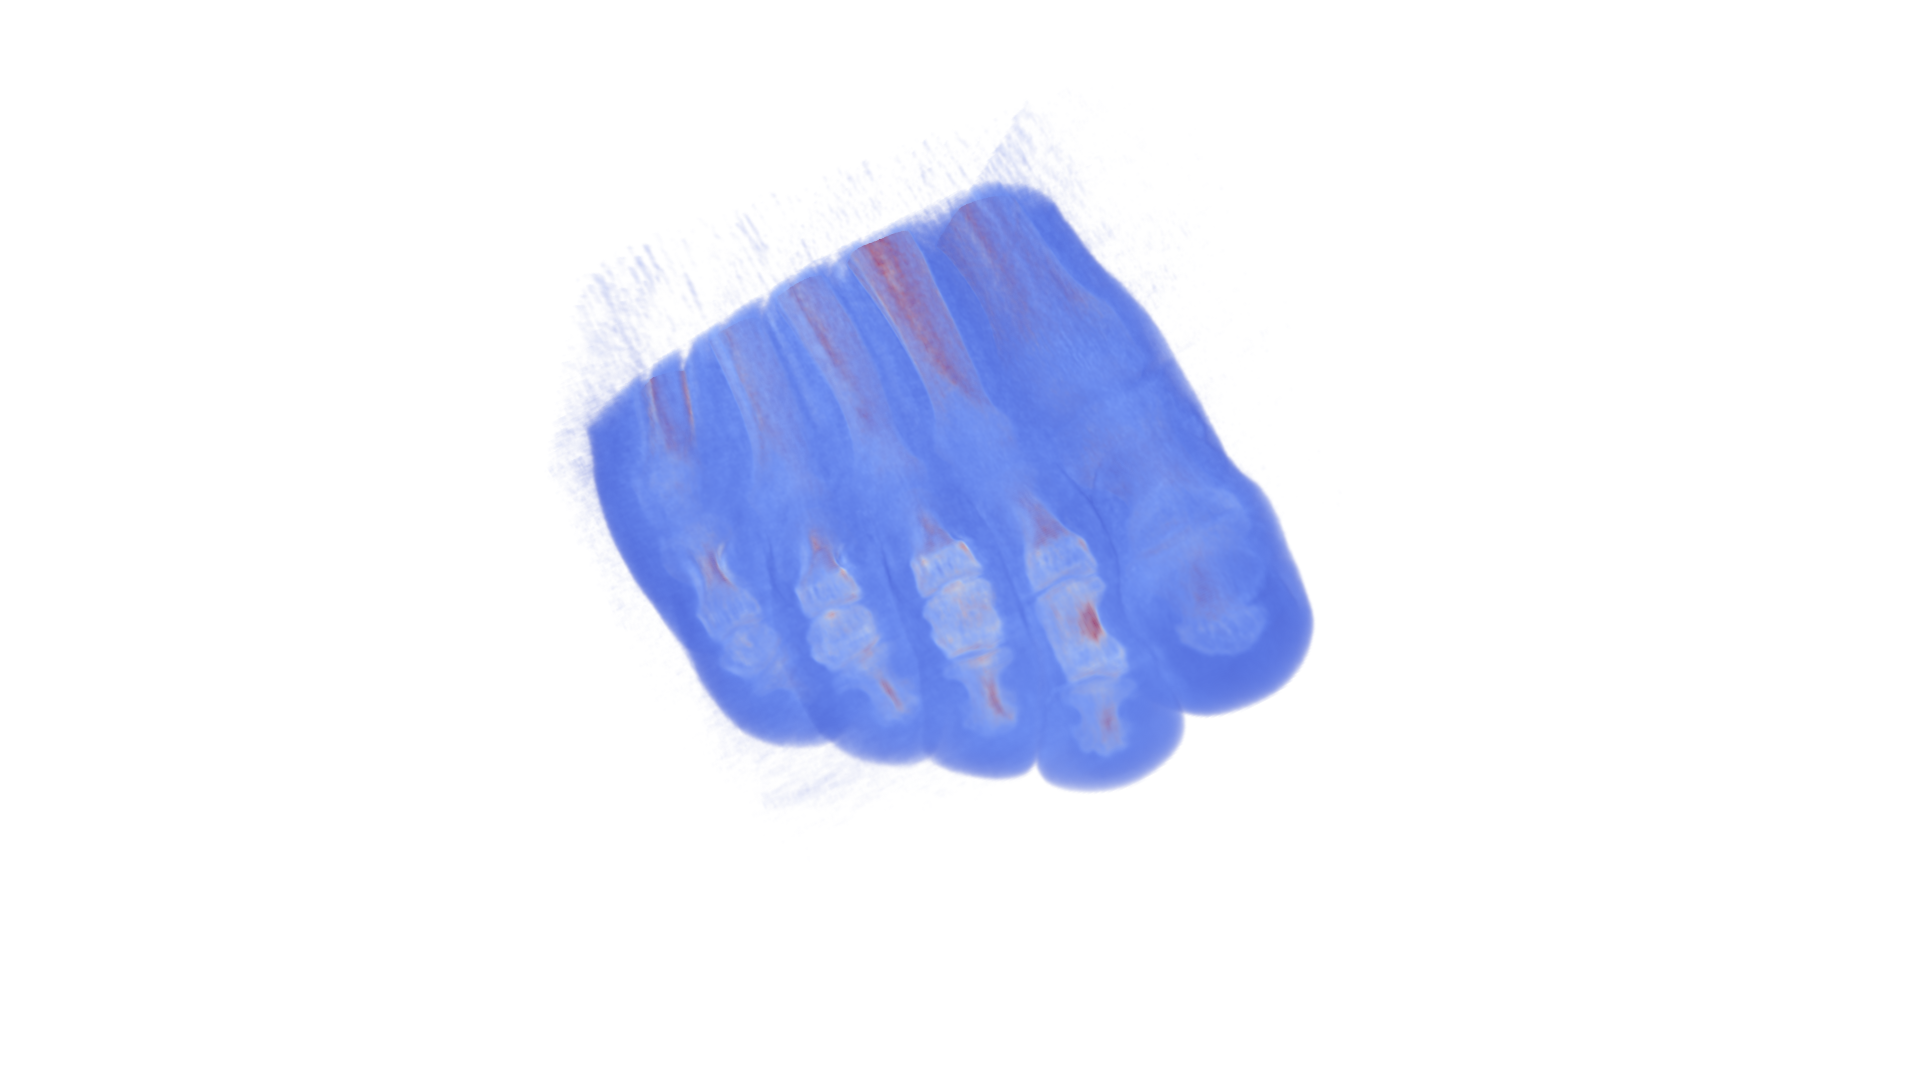
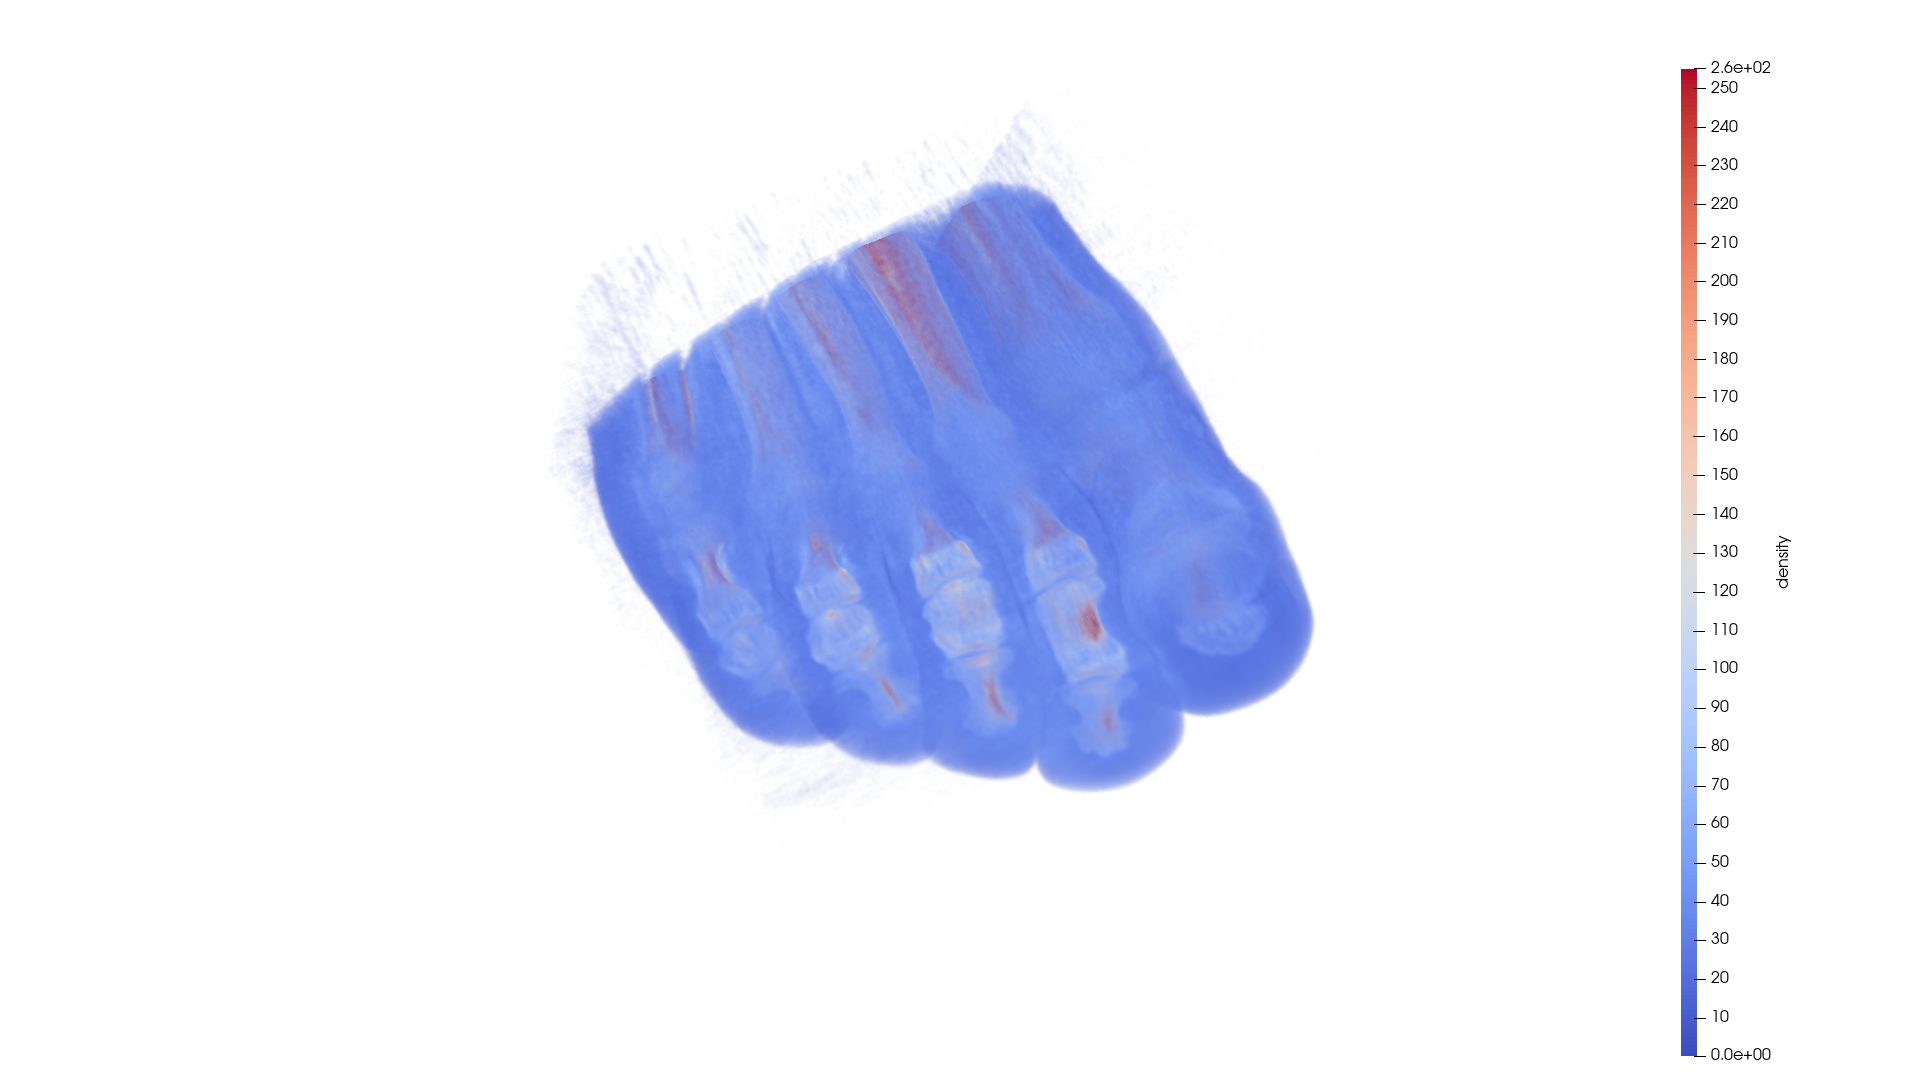
Add color bar to volume rendering example + add options for changing range of opacity

Changed region(s): [[0.875, 0.0611, 0.9062, 0.9778]]

diff --git a/database/direct_volume_rendering/resources/volumerender_trace.py b/database/direct_volume_rendering/resources/volumerender_trace.py
@@ -44,7 +44,6 @@ renderView1.CameraFocalPoint = [120.98375218527654, 119.8419039072476, 112.21062
 renderView1.CameraViewUp = [-0.26270924860874034, -0.8866291025912916, -0.3806214459717057]
 renderView1.CameraParallelScale = 220.83647796503186
 
-
 # ----------------------------------------------------------------
 # setup view layouts
 # ----------------------------------------------------------------
@@ -58,12 +57,45 @@ layout1.SetSize(1920, 1080)
 # setup the visualization in view 'renderView1'
 # ----------------------------------------------------------------
 
+# get 2D transfer function for 'Scalars_'                                                            
+scalars_TF2D = pvs.GetTransferFunction2D('Scalars_')                    # OWN_DATA: change field
+scalars_TF2D.ScalarRangeInitialized = 1
+scalars_TF2D.Range = [0.0, 255.0, 0.0, 1.0]
+
+# get color transfer function/color map for 'Scalars_'                                               
+scalars_LUT = pvs.GetColorTransferFunction('Scalars_')                  # OWN_DATA: change field
+scalars_LUT.AutomaticRescaleRangeMode = 'Never'
+scalars_LUT.TransferFunction2D = scalars_TF2D
+scalars_LUT.RGBPoints = [0.0, 0.231373, 0.298039, 0.752941, 127.5, 0.865003, 0.865003, 0.865003, 255.0, 0.705882, 0.0156863, 0.14902]
+scalars_LUT.ScalarRangeInitialized = 1.0
+
+# get opacity transfer function/opacity map for 'Scalars_'                                           
+scalars_PWF = pvs.GetOpacityTransferFunction('Scalars_')                # OWN_DATA: change field
+scalars_PWF.Points = [0.0, 0.0, 0.5, 0.0, 0.0, 0.0, 0.5, 0.0, 255.0, 1.0, 0.5, 0.0]
+scalars_PWF.ScalarRangeInitialized = 1
+
 # show data in view
 ctBonesvtiDisplay = pvs.Show(reader, renderView1)
-ctBonesvtiDisplay.SetRepresentationType('Volume')
-pvs.ColorBy(ctBonesvtiDisplay, ('POINTS', 'Scalars_'))                                      # OWN_DATA: every field has a name in a .vti file. Replace 'Scalars_' by the corresponding name
+ctBonesvtiDisplay.Representation = 'Volume'
+ctBonesvtiDisplay.ColorArrayName = ['POINTS', 'Scalars_']
+ctBonesvtiDisplay.LookupTable = scalars_LUT
+ctBonesvtiDisplay.OpacityArray = ['POINTS', 'Scalars_']                 # OWN_DATA: change field
+ctBonesvtiDisplay.OpacityTransferFunction = 'PiecewiseFunction'
+ctBonesvtiDisplay.ScalarOpacityUnitDistance = 1.7320508075688774
+ctBonesvtiDisplay.ScalarOpacityFunction = scalars_PWF
+ctBonesvtiDisplay.TransferFunction2D = scalars_TF2D
+ctBonesvtiDisplay.OpacityArrayName = ['POINTS', 'Scalars_']             # OWN_DATA: change field
 
-pvs.ResetCamera(renderView1)                                                                # OWN_DATA: if the original view does not fit ResetCamera can be used to focus on the visible data
+# get color legend/bar for scalars_LUT in view renderView1
+scalars_LUTColorBar = pvs.GetScalarBar(scalars_LUT, renderView1)
+scalars_LUTColorBar.WindowLocation = 'Any Location'
+scalars_LUTColorBar.Position = [0.8755364806866953, 0.022857142857142857]
+scalars_LUTColorBar.Title = 'density'                                   # OWN_DATA: change title
+scalars_LUTColorBar.ComponentTitle = ''
+scalars_LUTColorBar.ScalarBarLength = 0.9147619047619047
+scalars_LUTColorBar.Visibility = 1
+
+pvs.ResetCamera(renderView1)                                            # OWN_DATA: if the original view does not fit ResetCamera can be used to focus on the visible data
 
 # save screenshot
 pvs.SaveScreenshot('./output/volumerender.png', 
